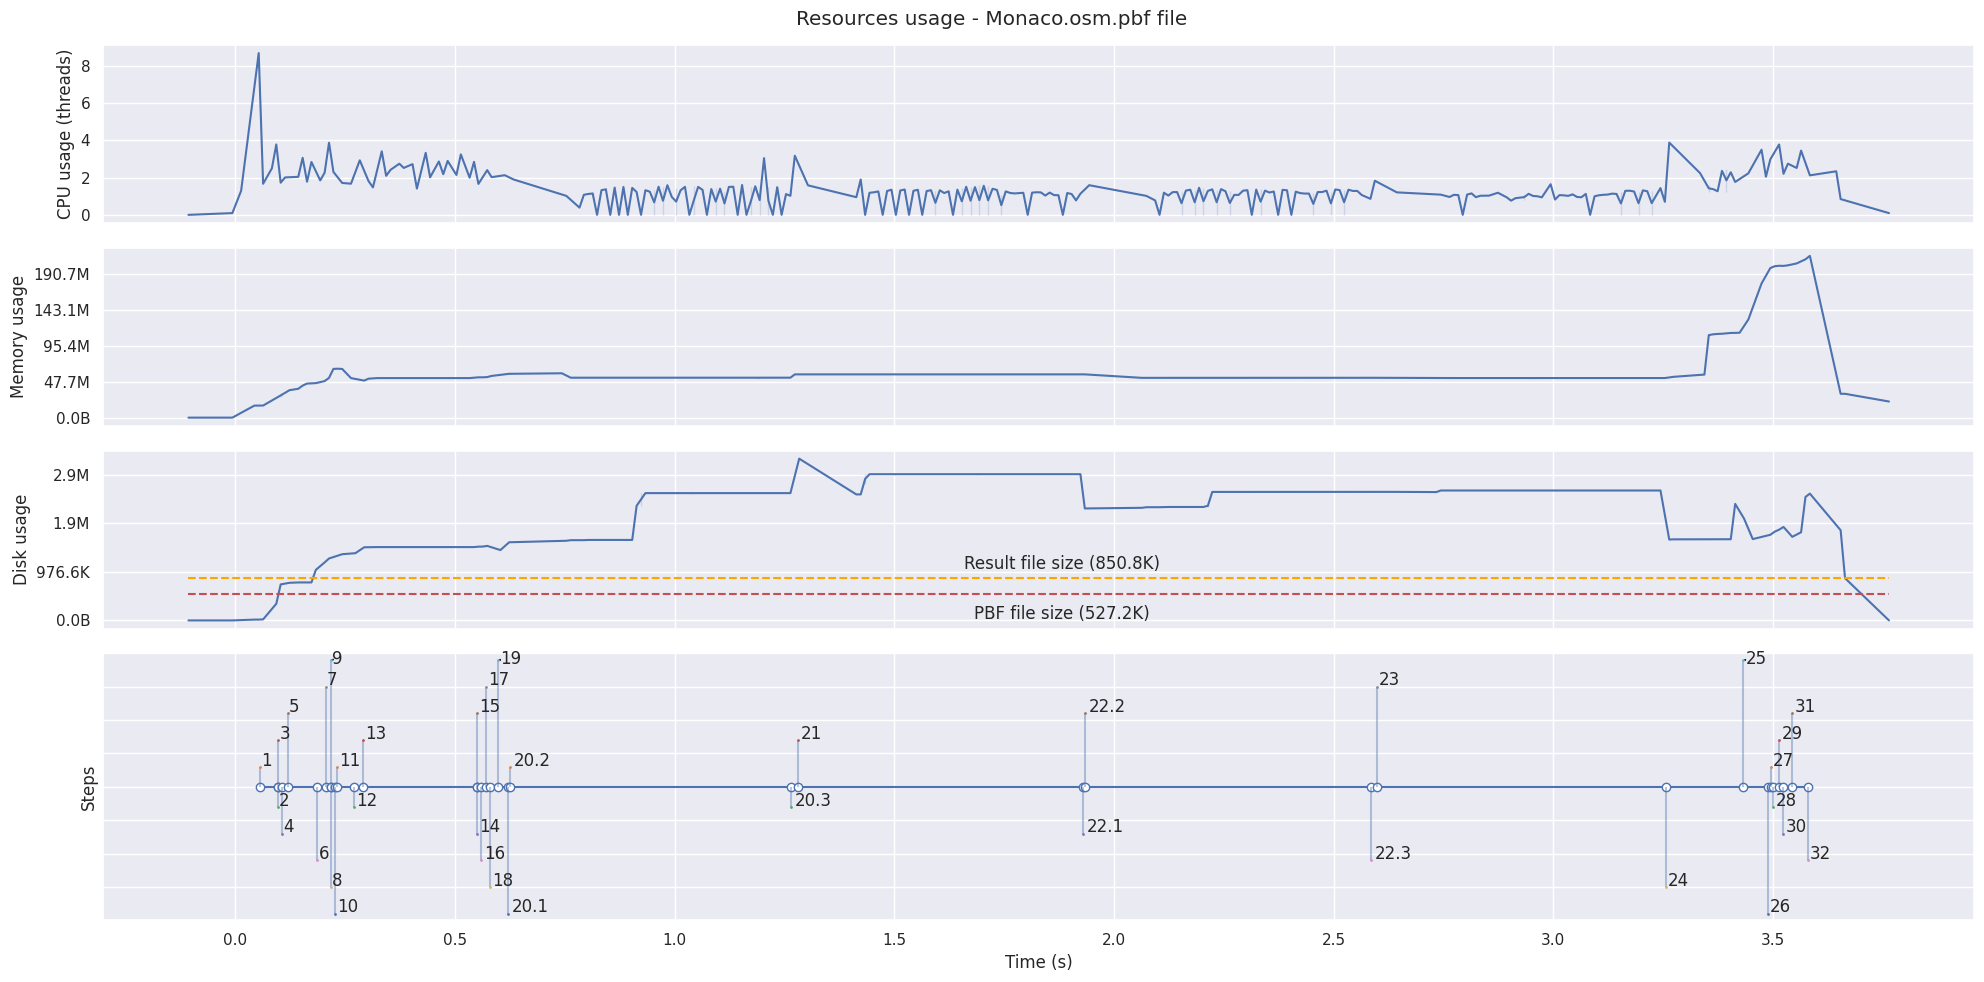
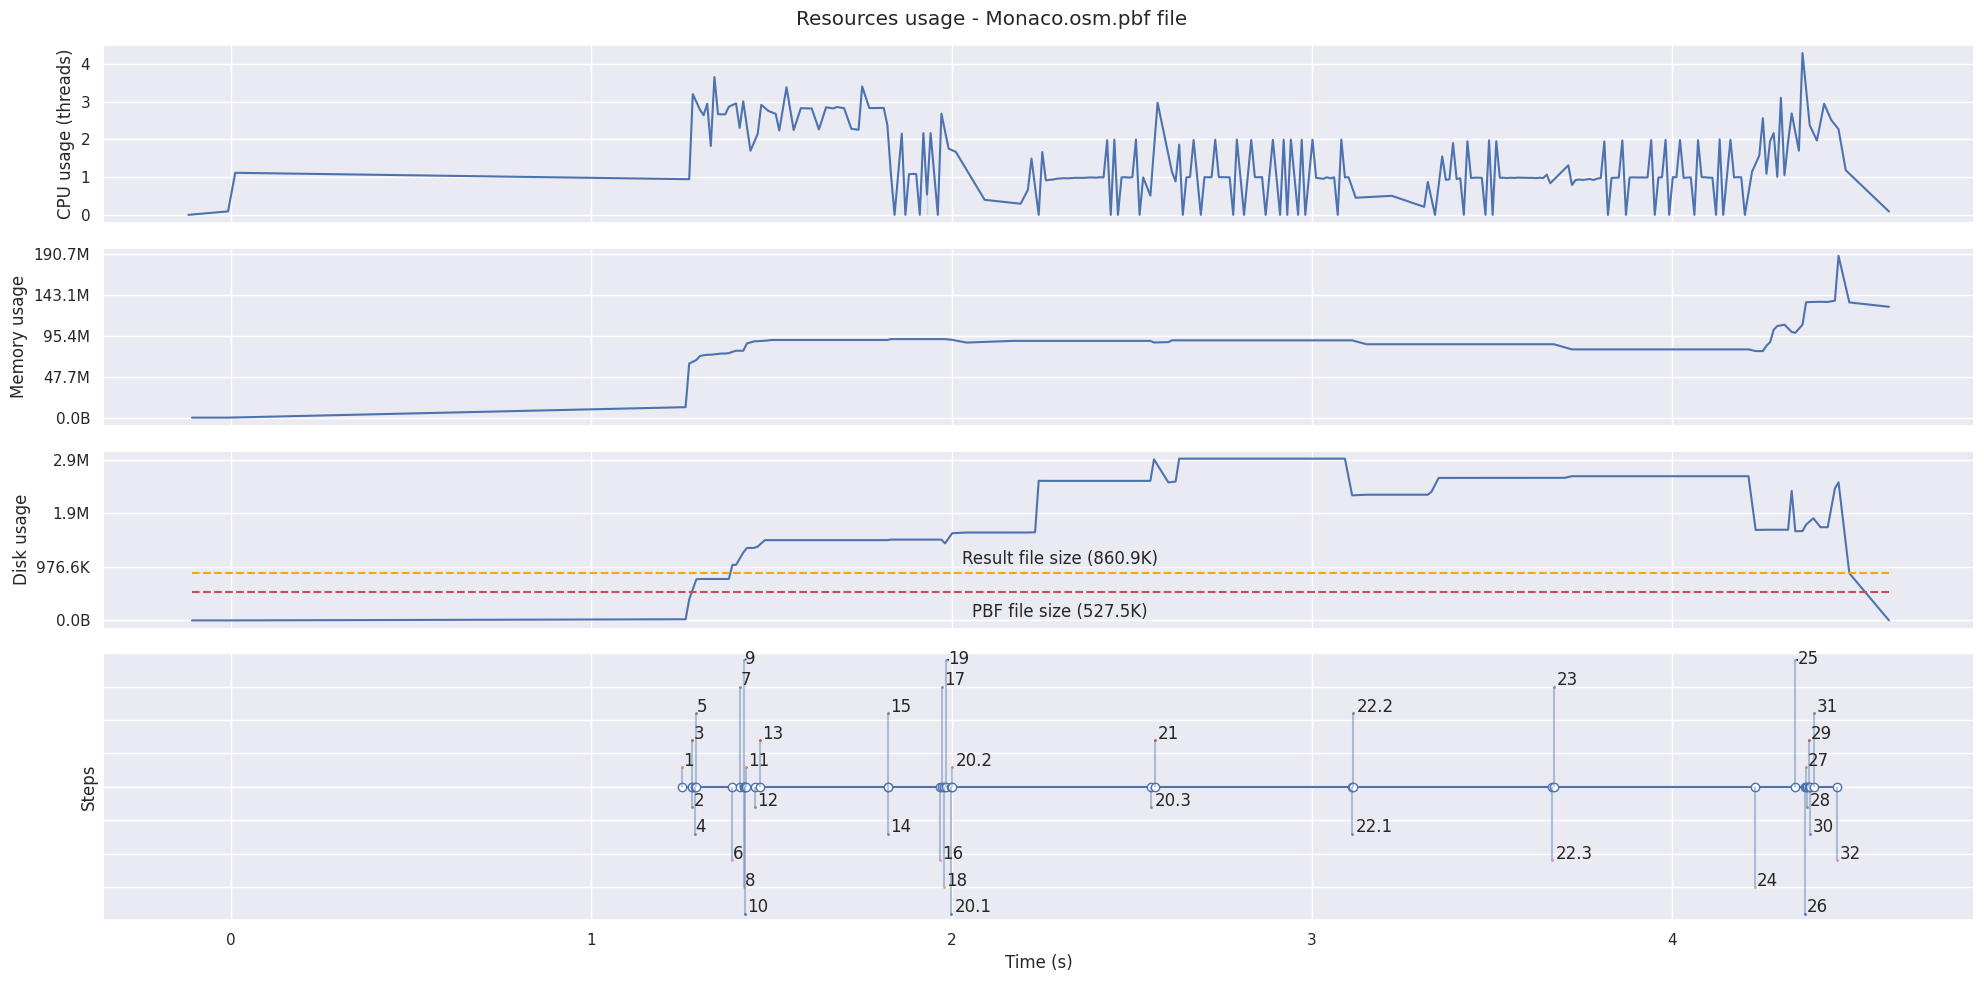
chore: update resources usage plots (#100)
* chore: change resource plot generation

---------

diff --git a/quackosm/_rich_progress.py b/quackosm/_rich_progress.py
@@ -354,8 +354,6 @@ class TaskProgressTracker:
         )
 
         if self.debug:
-            end_time = time.time()
-            elapsed_seconds = end_time - self.start_time
-            self.steps_times[step_number] = elapsed_seconds
+            self.steps_times[step_number] = round(time.time(), 2)
 
         self.current_step_number = f"{self.major_steps_prefix}[{step_number: >4}/{TOTAL_STEPS}]"
